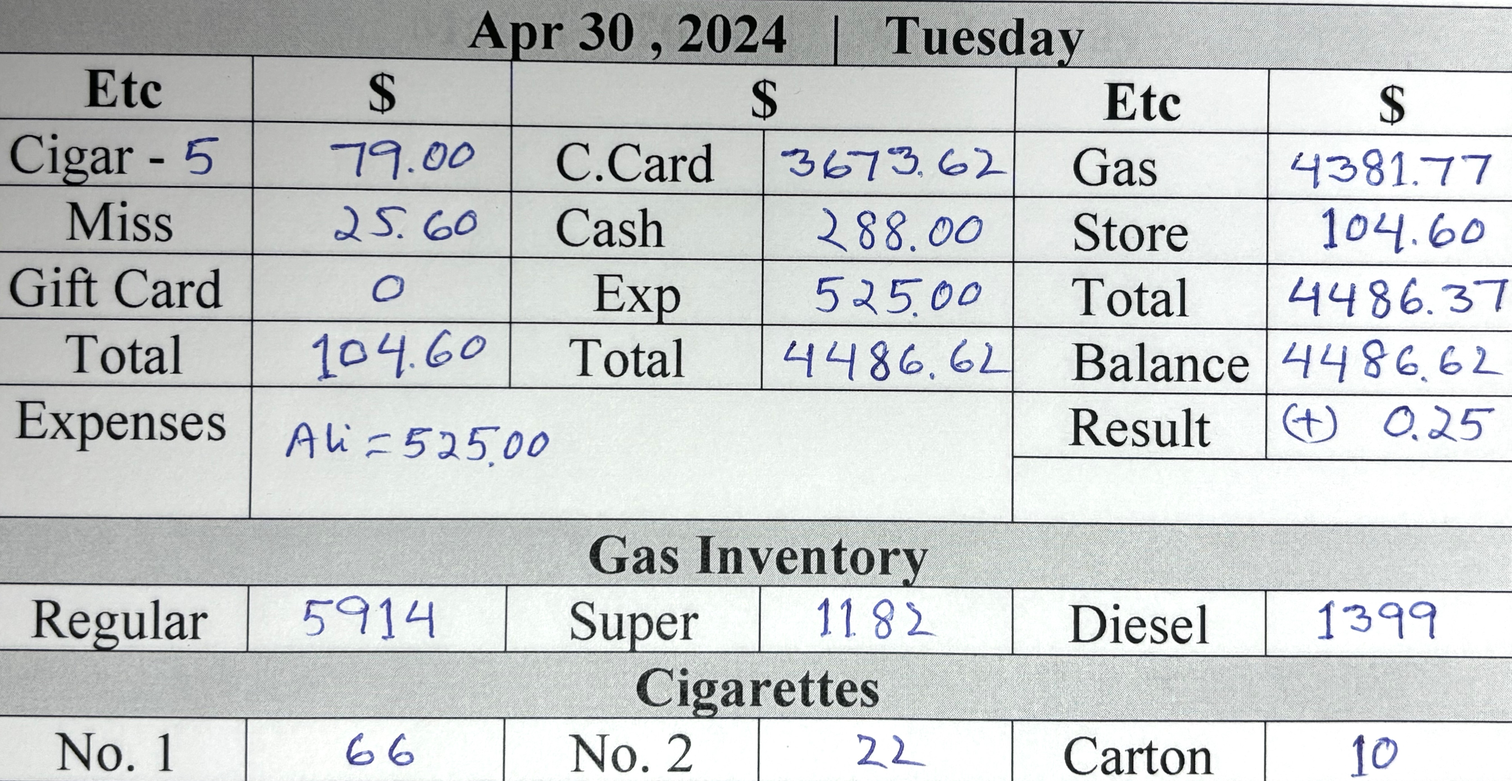
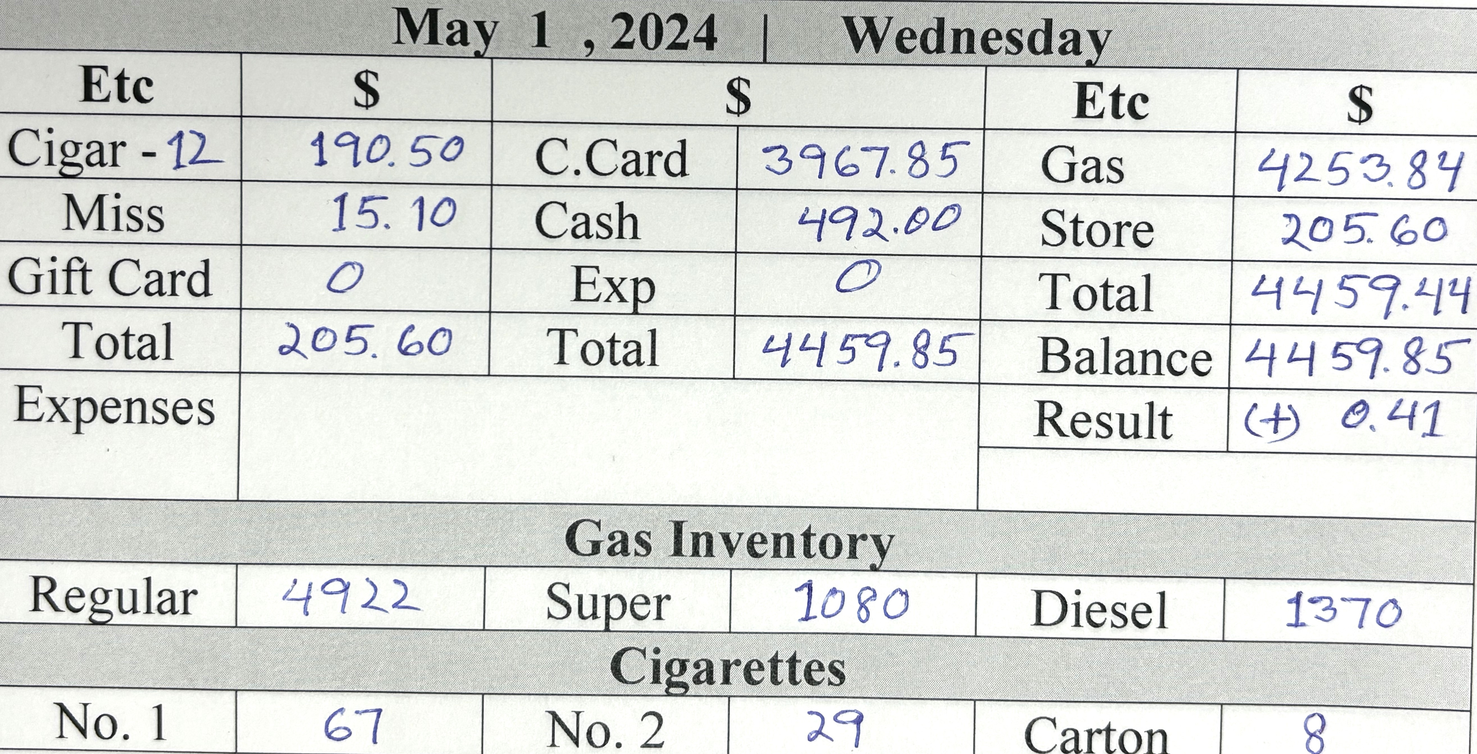
d

diff --git a/card.min.html b/card.min.html
@@ -1,1 +1,1 @@
-<!DOCTYPE html> <html lang="en"> <head> <meta charset="UTF-8"> <meta http-equiv="X-UA-Compatible" content="IE=edge"> <meta name="viewport" content="width=device-width,initial-scale=1"> <title>Gallon Info</title> <link rel="stylesheet" href="https://cdn.jsdelivr.net/npm/bootstrap@5.3.0-alpha1/dist/css/bootstrap.min.css"> </head> <body> <div class="card-group d-sm-flex flex-row bd-highlight mb- justify-content-center"> <div class="card bg-secondary align-items-center justify-content-center" style="height:50px"> <div class="card-body text-info fst-italic"> <h5 class="card-title fw-bolder text-center">Regular Price : <span class="text-warning">$3.59 <sup class="text-white fw-bolder fs-5">9</sup></span></h5> </div> </div> <div class="card bg-secondary align-items-center justify-content-center" style="height:50px"> <div class="card-body text-info fst-italic"> <h5 class="card-title fw-bolder text-center pt-">Silver Price : <span class="text-warning">$4.55<sup class="text-white fw-bolder fs-5">9</sup></span></h5> </div> </div> <div class="card bg-secondary align-items-center justify-content-center" style="height:50px"> <div class="card-body text-info fst-italic"> <h5 class="card-title fw-bolder text-center">Super Price : <span class="text-warning">$4.65<sup class="text-white fw-bolder fs-5">9</sup></span></h5> </div> </div> <div class="card bg-secondary align-items-center justify-content-center" style="height:50px"> <div class="card-body text-info fst-italic"> <h5 class="card-title fw-bolder text-center">Diesel Price : <span class="text-warning">$4.45<sup class="text-white fw-bolder fs-5">9</sup></span></h5> </div> </div> </div> <div class="card-group"> <div class="card"> <button type="button" class="btn btn-warning text- fs- fw-bold text-uppercase"> For store Details <a title="printPage Me" class="text-bg-danger ms-3 fw-bolder p-1 rounded-3 text-decoration-none" href="index.html"> Click Me </a> </button> </div> </div> <div class="card-group m-0 d-sm-flex flex-row bd-highlight mb-"> <div class="card me-1 bg-info"> <h5 class="card-title text-center pt-4 m-0"> <button class="p-1 rounded-3" type="button"><a title="Click Me" class="text-decoration-none text-primary fw-bolder" href="index.html"> Date : Apr 30, 2025 </a> </button> </h5>  <p class="card-text"></p> <img src="allPic/30.jpg" class="card-img-top text-danger text-center fw-bolder fs-3" alt="Call Rashid "> <div class="card-body">   <p class="card-text"></p> </div> </div> <div class="card me-1 bg-info"> <h5 class="card-title text-center pt-4 m-0"> <button class="p-1 rounded-3" type="button"><a title="Click Me" class="text-primary fw-bolder text-decoration-none" href="index.html"> Apr 29,2024 </a> </button> </h5>  <p class="card-text"></p> <img src="allPic/29.jpg" class="card-img-top text-center text-bg-danger" alt="Not Done"> <div class="card-body">   <p class="card-text"></p> </div> </div> <div class="card ms- bg-info"> <h5 class="card-title text-center pt-4 m-0"> <button class="p-1 rounded-3" type="button"><a title="Click Me" class="text-primary fw-bolder text-decoration-none" href="index.html"> Apr 28,2024 </a> </button> </h5>  <p class="card-text"></p> <img src="allPic/28.jpg" class="card-img-top text-center text-bg-danger" alt="Not Done"> <div class="card-body">   <p class="card-text"></p> </div> </div> <div class="card me-1 bg-info"> <h5 class="card-title text-center pt-4 m-0"> <button class="p-1 rounded-3" type="button"><a title="Click Me" class="text-primary fw-bolder text-decoration-none" href="index.html"> Apr 27,2024 </a> </button> </h5>  <p class="card-text"></p> <img title="Pic" src="allPic/27.jpg" class="card-img-top text-bg-danger fw-bolder text-center" alt="Already Done"> <div class="card-body">   <p class="card-text"></p> </div> </div> </div> <div class="card"> <div class="card-header bg-warning text-dark fw-bolder text-center py-3"> All Rights Reserved @ Jaber Ali , 2024 </div> </div>  <script type="text/javascript">const timeElement=document.querySelector(".time"),dateElement=document.querySelector(".date");function formatTime(e){e.getHours(),e.getMinutes(),e.getHours();return""}function formatDate(e){return` ${["January","Marruary","March","April","May","June","July","August","September","October","November","December"][e.getMonth()]} ${e.getDate()-1}, ${e.getFullYear()}`}setInterval((()=>{const e=new Date;timeElement.textContent=formatTime(e),dateElement.textContent=formatDate(e)}),200)</script> 
+<!DOCTYPE html> <html lang="en"> <head> <meta charset="UTF-8"> <meta http-equiv="X-UA-Compatible" content="IE=edge"> <meta name="viewport" content="width=device-width,initial-scale=1"> <title>Gallon Info</title> <link rel="stylesheet" href="https://cdn.jsdelivr.net/npm/bootstrap@5.3.0-alpha1/dist/css/bootstrap.min.css"> </head> <body> <div class="card-group d-sm-flex flex-row bd-highlight mb- justify-content-center"> <div class="card bg-secondary align-items-center justify-content-center" style="height:50px"> <div class="card-body text-info fst-italic"> <h5 class="card-title fw-bolder text-center">Regular Price : <span class="text-warning">$3.59 <sup class="text-white fw-bolder fs-5">9</sup></span></h5> </div> </div> <div class="card bg-secondary align-items-center justify-content-center" style="height:50px"> <div class="card-body text-info fst-italic"> <h5 class="card-title fw-bolder text-center pt-">Silver Price : <span class="text-warning">$4.55<sup class="text-white fw-bolder fs-5">9</sup></span></h5> </div> </div> <div class="card bg-secondary align-items-center justify-content-center" style="height:50px"> <div class="card-body text-info fst-italic"> <h5 class="card-title fw-bolder text-center">Super Price : <span class="text-warning">$4.65<sup class="text-white fw-bolder fs-5">9</sup></span></h5> </div> </div> <div class="card bg-secondary align-items-center justify-content-center" style="height:50px"> <div class="card-body text-info fst-italic"> <h5 class="card-title fw-bolder text-center">Diesel Price : <span class="text-warning">$4.45<sup class="text-white fw-bolder fs-5">9</sup></span></h5> </div> </div> </div> <div class="card-group"> <div class="card"> <button type="button" class="btn btn-warning text- fs- fw-bold text-uppercase"> For store Details <a title="printPage Me" class="text-bg-danger ms-3 fw-bolder p-1 rounded-3 text-decoration-none" href="index.html"> Click Me </a> </button> </div> </div> <div class="card-group m-0 d-sm-flex flex-row bd-highlight mb-"> <div class="card me-1 bg-info"> <h5 class="card-title text-center pt-4 m-0"> <button class="p-1 rounded-3" type="button"><a title="Click Me" class="text-decoration-none text-primary fw-bolder" href="index.html">   </a> </button> </h5>  <p class="card-text"></p> <img src="allPic/1.jpg" class="card-img-top text-danger text-center fw-bolder fs-3" alt="Call Rashid "> <div class="card-body">   <p class="card-text"></p> </div> </div> <div class="card me-1 bg-info"> <h5 class="card-title text-center pt-4 m-0"> <button class="p-1 rounded-3" type="button"><a title="Click Me" class="text-primary fw-bolder text-decoration-none" href="index.html"> Apr 30,2024 </a> </button> </h5>  <p class="card-text"></p> <img src="allPic/30.jpg" class="card-img-top text-center text-bg-danger" alt="Not Done"> <div class="card-body">   <p class="card-text"></p> </div> </div> <div class="card ms- bg-info"> <h5 class="card-title text-center pt-4 m-0"> <button class="p-1 rounded-3" type="button"><a title="Click Me" class="text-primary fw-bolder text-decoration-none" href="index.html"> Apr 29,2024 </a> </button> </h5>  <p class="card-text"></p> <img src="allPic/29.jpg" class="card-img-top text-center text-bg-danger" alt="Not Done"> <div class="card-body">   <p class="card-text"></p> </div> </div> <div class="card me-1 bg-info"> <h5 class="card-title text-center pt-4 m-0"> <button class="p-1 rounded-3" type="button"><a title="Click Me" class="text-primary fw-bolder text-decoration-none" href="index.html"> Apr 28,2024 </a> </button> </h5>  <p class="card-text"></p> <img title="Pic" src="allPic/28.jpg" class="card-img-top text-bg-danger fw-bolder text-center" alt="Already Done"> <div class="card-body">   <p class="card-text"></p> </div> </div> </div> <div class="card"> <div class="card-header bg-warning text-dark fw-bolder text-center py-3"> All Rights Reserved @ Jaber Ali , 2024 </div> </div>  <script type="text/javascript">const timeElement=document.querySelector(".time"),dateElement=document.querySelector(".date");function formatTime(e){e.getHours(),e.getMinutes(),e.getHours();return""}function formatDate(e){return` ${["January","Marruary","March","April","May","June","July","August","September","October","November","December"][e.getMonth()]} ${e.getDate()-1}, ${e.getFullYear()}`}setInterval((()=>{const e=new Date;timeElement.textContent=formatTime(e),dateElement.textContent=formatDate(e)}),200)</script> 

diff --git a/weekly.min.html b/weekly.min.html
@@ -1,1 +1,1 @@
-<!DOCTYPE html> <html lang="en"> <meta charset="UTF-8"> <meta http-equiv="X-UA-Compatible" content="IE=edge"> <meta name="viewport" content="width=device-width,initial-scale=1"> <title>Cigarettes Info</title> <link rel="stylesheet" href="https://cdn.jsdelivr.net/npm/bootstrap@5.3.0-alpha1/dist/css/bootstrap.min.css">  <body> <div class="text-bg-success py-2 fw-bold"> <marquee behavior="" direction="">Weekly Total Sales Money</marquee> </div> <div class="container-fluid text-center m-0 p-0"> <div class="card-group"> <div class="card"> <button type="button" class="btn btn-warning fs- fw-bold text-uppercase"> Home Page <a title="printPage Me" class="text-bg-danger ms-2 fw-bolder p-1 rounded-3 text-decoration-none" href="index.html"> Click Me </a> </button> </div> </div> <div class="text-bg-info text-cente py- fw-bold mb-"> <div class="card-group m-0 d-sm-flex flex-row bd-highlight mb-"> <div class="card me- bg-inf"> <h5 class="text-center ms-5 mt-3 text-danger">Current Week</h5> <div class="card-body ms-3 p-0"> <table class="table"> <tr class="text-end"> <td>Monday </td> <td>:</td> <td class="text-start"> 1129.00</td> </tr> <tr class="text-end"> <td>Tuesday </td> <td> :</td> <td class="text-start"> 813.00 </td> </tr> <tr class="text-end"> <td>Wednesday</td> <td> :</td> <td class="text-start"> .00</td> </tr> <tr class="text-end"> <td>Thursday </td> <td> :</td> <td class="text-start">.00 </td> </tr> <tr class="text-end"> <td class="">Friday </td> <td> :</td> <td class="text-start"> .00</td> </tr> <tr class="text-end"> <td>Saturday </td> <td> :</td> <td class="text-start"> .00</td> </tr> <tr class="text-end"> <td>Sunday </td> <td> :</td> <td class="text-start"> .00 </td> </tr> <tr class="text-end"> <td>Auto Money </td> <td> :</td> <td class="text-start"> .00 </td> </tr> </table> <div class="m-0 p-0"> <p class="text-center text-danger bg-light fw-bold">Total Money : 0 </p> </div> </div> </div> <div class="card me- bg-inf"> <h5 class="text-center ms- mt-3 text-danger">Last Week : Apr 22 to 28 , 2024</h5> <div class="card-body ms-3 p-0"> <table class="table"> <tr class="text-end"> <tr class="text-end"> <td>Monday </td> <td>:</td> <td class="text-start"> 516.00</td> </tr> <tr class="text-end"> <td>Tuesday </td> <td> :</td> <td class="text-start"> 996.00 </td> </tr> <tr class="text-end"> <td>Wednesday</td> <td> :</td> <td class="text-start"> 502.00</td> </tr> <tr class="text-end"> <td>Thursday </td> <td> :</td> <td class="text-start">1041.00 </td> </tr> <tr class="text-end"> <td class="">Friday </td> <td> :</td> <td class="text-start"> 829.00</td> </tr> <tr class="text-end"> <td>Saturday </td> <td> :</td> <td class="text-start"> 921.00</td> </tr> <tr class="text-end"> <td>Sunday </td> <td> :</td> <td class="text-start"> 755.00 </td> </tr> <tr class="text-end"> <td>Auto Money </td> <td> :</td> <td class="text-start"> 1407 <sup class="p-1 rounded-4 text-bg-dark">Tax:48</sup> [Mostofa=1360] </td> </tr> </table> <div class="m-0 p-0"> <p class="text-center text-danger bg-light fw-bold">Total Money : 6967 - 1163 = 5804 </p> </div> </div> </div> <div class="card me- bg-"> <div class="card-body"> <h5 class="text-start text-danger ms-2">Expenses of Last Week</h5> <table class="table text-start"> <tr> <td class="">Ali <span class="ms-5">: 630.00</span></td> </tr> <tr> <td class="">Rashid <span class="ms-3">: 533.00</span></td> </tr> <tr> </tr> <tr> <td class="text-bg-warning text-dark rounded-2">Total <span class="ms-4">: 1163.00</span></td> </tr> </table> </div> </div> </div> </div> <!-- #footer start --> <div class="text-bg-success text-center py-2 fw-bold"> <p> All Rights Reserved @ Jaber Ali , 2024  </p> </div> </div> <script type="text/javascript">function printPage(){window.print()}</script> 
+<!DOCTYPE html> <html lang="en"> <meta charset="UTF-8"> <meta http-equiv="X-UA-Compatible" content="IE=edge"> <meta name="viewport" content="width=device-width,initial-scale=1"> <title>Cigarettes Info</title> <link rel="stylesheet" href="https://cdn.jsdelivr.net/npm/bootstrap@5.3.0-alpha1/dist/css/bootstrap.min.css">  <body> <div class="text-bg-success py-2 fw-bold"> <marquee behavior="" direction="">Weekly Total Sales Money</marquee> </div> <div class="container-fluid text-center m-0 p-0"> <div class="card-group"> <div class="card"> <button type="button" class="btn btn-warning fs- fw-bold text-uppercase"> Home Page <a title="printPage Me" class="text-bg-danger ms-2 fw-bolder p-1 rounded-3 text-decoration-none" href="index.html"> Click Me </a> </button> </div> </div> <div class="text-bg-info text-cente py- fw-bold mb-"> <div class="card-group m-0 d-sm-flex flex-row bd-highlight mb-"> <div class="card me- bg-inf"> <h5 class="text-center ms-5 mt-3 text-danger">Current Week</h5> <div class="card-body ms-3 p-0"> <table class="table"> <tr class="text-end"> <td>Monday </td> <td>:</td> <td class="text-start"> 1129.00</td> </tr> <tr class="text-end"> <td>Tuesday </td> <td> :</td> <td class="text-start"> 813.00 </td> </tr> <tr class="text-end"> <td>Wednesday</td> <td> :</td> <td class="text-start"> 492.00</td> </tr> <tr class="text-end"> <td>Thursday </td> <td> :</td> <td class="text-start">.00 </td> </tr> <tr class="text-end"> <td class="">Friday </td> <td> :</td> <td class="text-start"> .00</td> </tr> <tr class="text-end"> <td>Saturday </td> <td> :</td> <td class="text-start"> .00</td> </tr> <tr class="text-end"> <td>Sunday </td> <td> :</td> <td class="text-start"> .00 </td> </tr> <tr class="text-end"> <td>Auto Money </td> <td> :</td> <td class="text-start"> .00 </td> </tr> </table> <div class="m-0 p-0"> <p class="text-center text-danger bg-light fw-bold">Total Money : 0 </p> </div> </div> </div> <div class="card me- bg-inf"> <h5 class="text-center ms- mt-3 text-danger">Last Week : Apr 22 to 28 , 2024</h5> <div class="card-body ms-3 p-0"> <table class="table"> <tr class="text-end"> <tr class="text-end"> <td>Monday </td> <td>:</td> <td class="text-start"> 516.00</td> </tr> <tr class="text-end"> <td>Tuesday </td> <td> :</td> <td class="text-start"> 996.00 </td> </tr> <tr class="text-end"> <td>Wednesday</td> <td> :</td> <td class="text-start"> 502.00</td> </tr> <tr class="text-end"> <td>Thursday </td> <td> :</td> <td class="text-start">1041.00 </td> </tr> <tr class="text-end"> <td class="">Friday </td> <td> :</td> <td class="text-start"> 829.00</td> </tr> <tr class="text-end"> <td>Saturday </td> <td> :</td> <td class="text-start"> 921.00</td> </tr> <tr class="text-end"> <td>Sunday </td> <td> :</td> <td class="text-start"> 755.00 </td> </tr> <tr class="text-end"> <td>Auto Money </td> <td> :</td> <td class="text-start"> 1407 <sup class="p-1 rounded-4 text-bg-dark">Tax:48</sup> [Mostofa=1360] </td> </tr> </table> <div class="m-0 p-0"> <p class="text-center text-danger bg-light fw-bold">Total Money : 6967 - 1163 = 5804 </p> </div> </div> </div> <div class="card me- bg-"> <div class="card-body"> <h5 class="text-start text-danger ms-2">Expenses of Last Week</h5> <table class="table text-start"> <tr> <td class="">Ali <span class="ms-5">: 630.00</span></td> </tr> <tr> <td class="">Rashid <span class="ms-3">: 533.00</span></td> </tr> <tr> </tr> <tr> <td class="text-bg-warning text-dark rounded-2">Total <span class="ms-4">: 1163.00</span></td> </tr> </table> </div> </div> </div> </div> <!-- #footer start --> <div class="text-bg-success text-center py-2 fw-bold"> <p> All Rights Reserved @ Jaber Ali , 2024  </p> </div> </div> <script type="text/javascript">function printPage(){window.print()}</script> 

diff --git a/cigarettes.min.html b/cigarettes.min.html
@@ -1,1 +1,1 @@
-<!DOCTYPE html> <html lang="en"> <meta charset="UTF-8"> <meta http-equiv="X-UA-Compatible" content="IE=edge"> <meta name="viewport" content="width=device-width,initial-scale=1"> <title>Cigarettes Info</title> <link rel="stylesheet" href="https://cdn.jsdelivr.net/npm/bootstrap@5.3.0-alpha1/dist/css/bootstrap.min.css">  <body> <div class="text-bg-success py-2 fw-bold"> <marquee behavior="" direction="">BP, 507 Jerusalem Ave , North Bellmore NY 11710</marquee> </div> <div class="container-fluid text-center m-0 p-0 bg-light"> <div class="card-group"> <div class="card"> <button type="button" class="btn btn-warning fs- fw-bold text-uppercase"> For store Details <a title="printPage Me" class="text-bg-danger ms-3 fw-bolder p-1 rounded-3 text-decoration-none" href="index.html"> Click Me </a> </button> </div> </div> <div class="col"> <table class="table table-success table-striped table-bordered border-success text-primary fw-bold"> <tbody> <tr class="text-capitalize"> <td class="text-primary text-start fs-5 fw-bolde"> <h5 class="text-capitalize text-dark fw-bolder ms-4">Make an order cigarette :</h5> <ol class="ms-3"> <li class=""> Newport reg short only : </li> <li class="">Parliament light short and 100 : </li> <li class="">Parliament Menthol and Silver : </li> <li class="">Merit blue : </li> <li class="">Marlboro light short only : </li> <li class="">American spirit blue and yellow : </li> </ol> </td> </tr> </tbody> </table> <table class="table table-success table-striped table-bordered border-success text-primary fw-bold"> <tbody> <tr> <td class="text-primary text-start fs-5 fw-bolde"> <h4 class="text-capitalize text-dark fw-bolder ms-4">on hand cigarette in store :</h4> <ol class="ms-3"> <li class=""> Newport reg : 1 carton</li> <li class=""> Newport 100 : 2 carton</li> <li class="">Marlboro red reg : 1 Carton</li> <li class="">Marlboro red 100 : 1 Carton</li> <li class="">Marlboro light 100 : 2 Carton</li> <li class="">American Dark Green : 2 Carton</li> </ol> <button title="For April-23" type="button" class="btn btn-danger fw-bolder ms-4"> Total : { 9 } Carton on Hand in Store </button> </td> </tr> </tbody> </table> </div> </div>  <div class="text-bg-info text-center py-1 fw-bold mb-2"> <h4 class="text-">Monthly Cigar Purchase :</h4> <div class="card-group m-0 d-sm-flex flex-row bd-highlight mb-"> <div class="card me-1 bg-info"> <h5 class="card-title text-center pt-4 m-0"> <button class="p-1 rounded-3" type="button"> <a title="Click Me" class="text-decoration-none text-primary fw-bolder" href="index.html"> Month : Mar , 2024 </a> </button> </h5>  <p class="card-text"></p> <img src="allPic/mar.jpg" class="card-img-top text-danger text-center fw-bolder fs-3" alt="Not Done "> <div class="card-body">   <p class="card-text"></p> </div> </div> <div class="card me-1 bg-info"> <h5 class="card-title text-center pt-4 m-0"> <button class="p-1 rounded-3" type="button"> <a title="Click Me" class="text-primary fw-bolder text-decoration-none" href="index.html"> Month : Jan , 2024 </a> </button> </h5>  <p class="card-text"></p> <img src="allPic/jan.jpg" class="card-img-top text-center text-bg-danger" alt="Not Done"> <div class="card-body">   <p class="card-text"></p> </div> </div> </div> </div> <!-- #footer start --> <div class="text-bg-success text-center py-2 fw-bold"> <p> All Rights Reserved @ Jaber Ali , 2024  </p> </div>  <script type="text/javascript">function printPage(){window.print()}</script> 
+<!DOCTYPE html> <html lang="en"> <meta charset="UTF-8"> <meta http-equiv="X-UA-Compatible" content="IE=edge"> <meta name="viewport" content="width=device-width,initial-scale=1"> <title>Cigarettes Info</title> <link rel="stylesheet" href="https://cdn.jsdelivr.net/npm/bootstrap@5.3.0-alpha1/dist/css/bootstrap.min.css">  <body> <div class="text-bg-success py-2 fw-bold"> <marquee behavior="" direction="">BP, 507 Jerusalem Ave , North Bellmore NY 11710</marquee> </div> <div class="container-fluid text-center m-0 p-0 bg-light"> <div class="card-group"> <div class="card"> <button type="button" class="btn btn-warning fs- fw-bold text-uppercase"> For store Details <a title="printPage Me" class="text-bg-danger ms-3 fw-bolder p-1 rounded-3 text-decoration-none" href="index.html"> Click Me </a> </button> </div> </div> <div class="col"> <table class="table table-success table-striped table-bordered border-success text-primary fw-bold"> <tbody> <tr class="text-capitalize"> <td class="text-primary text-start fs-5 fw-bolde"> <h5 class="text-capitalize text-dark fw-bolder ms-4">Make an order cigarette :</h5> <ol class="ms-3"> <li class=""> Newport reg short only : </li> <li class="">Parliament light short and 100 : </li> <li class="">Parliament Menthol and Silver : </li> <li class="">Merit blue : </li> <li class="">Marlboro light short only : </li> <li class="">American spirit blue and yellow : </li> </ol> </td> </tr> </tbody> </table> <table class="table table-success table-striped table-bordered border-success text-primary fw-bold"> <tbody> <tr> <td class="text-primary text-start fs-5 fw-bolde"> <h4 class="text-capitalize text-dark fw-bolder ms-4">on hand cigarette in store :</h4> <ol class="ms-3"> <li class=""> Newport 100 : 2 carton</li> <li class="">Marlboro red reg : 1 Carton</li> <li class="">Marlboro red 100 : 1 Carton</li> <li class="">Marlboro light 100 : 2 Carton</li> <li class="">American Dark Green : 2 Carton</li> </ol> <button title="For April-23" type="button" class="btn btn-danger fw-bolder ms-4"> Total : { 8 } Carton on Hand in Store </button> </td> </tr> </tbody> </table> </div> </div>  <div class="text-bg-info text-center py-1 fw-bold mb-2"> <h4 class="text-">Monthly Cigar Purchase :</h4> <div class="card-group m-0 d-sm-flex flex-row bd-highlight mb-"> <div class="card me-1 bg-info"> <h5 class="card-title text-center pt-4 m-0"> <button class="p-1 rounded-3" type="button"> <a title="Click Me" class="text-decoration-none text-primary fw-bolder" href="index.html"> Month : Mar , 2024 </a> </button> </h5>  <p class="card-text"></p> <img src="allPic/mar.jpg" class="card-img-top text-danger text-center fw-bolder fs-3" alt="Not Done "> <div class="card-body">   <p class="card-text"></p> </div> </div> <div class="card me-1 bg-info"> <h5 class="card-title text-center pt-4 m-0"> <button class="p-1 rounded-3" type="button"> <a title="Click Me" class="text-primary fw-bolder text-decoration-none" href="index.html"> Month : Jan , 2024 </a> </button> </h5>  <p class="card-text"></p> <img src="allPic/jan.jpg" class="card-img-top text-center text-bg-danger" alt="Not Done"> <div class="card-body">   <p class="card-text"></p> </div> </div> </div> </div> <!-- #footer start --> <div class="text-bg-success text-center py-2 fw-bold"> <p> All Rights Reserved @ Jaber Ali , 2024  </p> </div>  <script type="text/javascript">function printPage(){window.print()}</script> 

diff --git a/oil.min.html b/oil.min.html
@@ -1,1 +1,1 @@
-<!DOCTYPE html> <html lang="en"> <meta charset="UTF-8"> <meta http-equiv="X-UA-Compatible" content="IE=edge"> <meta name="viewport" content="width=device-width,initial-scale=1"> <title>Oil Inentory</title> <link rel="stylesheet" href="https://cdn.jsdelivr.net/npm/bootstrap@5.3.0-alpha1/dist/css/bootstrap.min.css">  <body> <div class="text-bg-success py-2 fw-bold"> <marquee behavior="" direction="">OIL INVENTORY</marquee> </div> <div class="container-fluid text-center m-0 p-0"> <div class="card-group"> <div class="card"> <button type="button" class="btn btn-warning fs- fw-bold text-uppercase"> Home Page <a title="printPage Me" class="text-bg-danger ms-2 fw-bolder p-1 rounded-3 text-decoration-none" href="index.html"> Click Me </a> </button> </div> </div> <div class="text-bg-inf fw-bold mb-"> <div class="card-group m- text-cente d-sm-flex flex-row bd-highlight mb-"> <div class="container mt-3"> <h3>Oil Inventory</h3> <div class="table-responsive-sm"> <table class="table table-bordered"> <tbody> <thead class="text-bg-dark fw-bolder"> <tr> <td>Name</td> <td>Quantity</td> <td>Sold</td> </tr> </thead> <tr> <td>Synthetic Oil</td> <td>26</td> <td>0</td> </tr> <tr> <td>Regular Oil</td> <td>42</td> <td>0 </td> </tr> <tr> <td>Washer Fluid</td> <td>3</td> <td>0</td> </tr> <tr> <td>Antifreeze </td> <td>3</td> <td>0</td> </tr> <tr> <td>Gas Can</td> <td>3</td> <td>0</td> </tr> <tr> <td>Rhino Item</td> <td>106</td> <td>0</td> </tr> </tbody> </table> </div> </div> </div> </div> </div> <!-- #footer start --> <div class="text-bg-success text-center py-2 fw-bold"> <p> All Rights Reserved @ Jaber Ali , 2024  </p> </div>  <script type="text/javascript">function printPage(){window.print()}</script> 
+<!DOCTYPE html> <html lang="en"> <meta charset="UTF-8"> <meta http-equiv="X-UA-Compatible" content="IE=edge"> <meta name="viewport" content="width=device-width,initial-scale=1"> <title>Oil Inentory</title> <link rel="stylesheet" href="https://cdn.jsdelivr.net/npm/bootstrap@5.3.0-alpha1/dist/css/bootstrap.min.css">  <body> <div class="text-bg-success py-2 fw-bold"> <marquee behavior="" direction="">OIL INVENTORY</marquee> </div> <div class="container-fluid text-center m-0 p-0"> <div class="card-group"> <div class="card"> <button type="button" class="btn btn-warning fs- fw-bold text-uppercase"> Home Page <a title="printPage Me" class="text-bg-danger ms-2 fw-bolder p-1 rounded-3 text-decoration-none" href="index.html"> Click Me </a> </button> </div> </div> <div class="text-bg-inf fw-bold mb-"> <div class="card-group m- text-cente d-sm-flex flex-row bd-highlight mb-"> <div class="container mt-3"> <h3>Oil Inventory</h3> <div class="table-responsive-sm"> <table class="table table-bordered"> <tbody> <thead class="text-bg-dark fw-bolder"> <tr> <td>Name</td> <td>Quantity</td> <td>Sold</td> </tr> </thead> <tr> <td>Synthetic Oil</td> <td>25</td> <td>1</td> </tr> <tr> <td>Regular Oil</td> <td>42</td> <td>0 </td> </tr> <tr> <td>Washer Fluid</td> <td>2</td> <td>1</td> </tr> <tr> <td>Antifreeze </td> <td>3</td> <td>0</td> </tr> <tr> <td>Gas Can</td> <td>3</td> <td>0</td> </tr> <tr> <td>Rhino Item</td> <td>106</td> <td>0</td> </tr> </tbody> </table> </div> </div> </div> </div> </div> <!-- #footer start --> <div class="text-bg-success text-center py-2 fw-bold"> <p> All Rights Reserved @ Jaber Ali , 2024  </p> </div>  <script type="text/javascript">function printPage(){window.print()}</script> 

diff --git a/card.html b/card.html
@@ -59,15 +59,15 @@
         <h5 class="card-title text-center  pt-4 m-0">
           <button class="p-1  rounded-3" type="button"><a title="Click Me"
              class="text-decoration-none text-primary fw-bolder  "  href="index.html">
-             Date : Apr 30, 2025  
-            <!-- <div class="time"></div>
-            <div class="date"></div> -->
+             <!-- Date : Apr 30, 2025   -->
+            <div class="time"></div>
+            <div class="date"></div>
           </a>
           </button>
         </h5>
           <p class="card-text"></p>
           <p class="card-text"><small class="text-muted"></small></p>
-        <img src="allPic/30.jpg" class="card-img-top text-danger text-center fw-bolder fs-3"   alt="Call Rashid ">
+        <img src="allPic/1.jpg" class="card-img-top text-danger text-center fw-bolder fs-3"   alt="Call Rashid ">
         <div class="card-body">
           <h5 class="card-title"></h5>
           <p class="card-text"></p>
@@ -78,13 +78,13 @@
         <h5 class="card-title text-center pt-4 m-0">
           <button class="p-1 rounded-3" type="button"><a title="Click Me"
              class="text-primary fw-bolder text-decoration-none " href="index.html">
-             Apr 29,2024
+             Apr 30,2024
           </a>
           </button>
         </h5>
           <p class="card-text"></p>
           <p class="card-text"><small class="text-muted"></small></p>
-        <img src="allPic/29.jpg" class="card-img-top text-center text-bg-danger" 
+        <img src="allPic/30.jpg" class="card-img-top text-center text-bg-danger" 
         alt="Not Done">
         <div class="card-body">
           <h5 class="card-title"></h5>
@@ -96,13 +96,13 @@
         <h5 class="card-title text-center pt-4 m-0 ">
           <button class="p-1 rounded-3" type="button"><a title="Click Me" 
             class="text-primary fw-bolder text-decoration-none " href="index.html">
-            Apr 28,2024         
+            Apr 29,2024         
           </a>
           </button>
           </h5>
           <p class="card-text"></p>
           <p class="card-text"><small class="text-muted"></small></p>
-        <img src="allPic/28.jpg" class="card-img-top text-center text-bg-danger" 
+        <img src="allPic/29.jpg" class="card-img-top text-center text-bg-danger" 
         alt="Not Done">
         <div class="card-body">
           <h5 class="card-title"></h5>
@@ -115,13 +115,13 @@
         <h5 class="card-title text-center pt-4 m-0 ">
           <button class="p-1 rounded-3" type="button"><a title="Click Me" 
             class="text-primary fw-bolder text-decoration-none " href="index.html">
-             Apr 27,2024
+             Apr 28,2024
             </a>
           </button>
           </h5>
           <p class="card-text"></p>
           <p class="card-text"><small class="text-muted"></small></p>
-        <img title="Pic" src="allPic/27.jpg" class="card-img-top  text-bg-danger fw-bolder text-center"
+        <img title="Pic" src="allPic/28.jpg" class="card-img-top  text-bg-danger fw-bolder text-center"
          alt="Already Done">
         <div class="card-body">
           <h5 class="card-title"></h5>

diff --git a/cigarettes.html b/cigarettes.html
@@ -71,7 +71,7 @@
                 <td class="text-primary text-start fs-5 fw-bolde">
                   <h4 class=" text-capitalize text-dark fw-bolder ms-4">on hand cigarette in store :</h4>
                   <ol class="ms-3">
-                    <li class=""> Newport reg : 1 carton</li>
+                    <!-- <li class=""> Newport reg : 1 carton</li> -->
                     <li class=""> Newport 100 : 2 carton</li>
                     <!-- <li class="">Parliament 100 : 1 Carton</li>
                     <li class="">Parliament Menthol : 1 Carton</li> -->
@@ -86,7 +86,7 @@
             type="button"
             class="btn btn-danger fw-bolder ms-4"
           >
-            Total : { 9 } Carton on Hand in Store 
+            Total : { 8 } Carton on Hand in Store 
           </button>
                 </td>
                 

diff --git a/oil.html b/oil.html
@@ -56,8 +56,8 @@
                     </thead>
                   <tr>
                     <td>Synthetic Oil</td>
-                    <td>26</td>
-                    <td>0</td>
+                    <td>25</td>
+                    <td>1</td>
                   </tr>
                   <tr>
                     <td>Regular Oil</td>
@@ -67,8 +67,8 @@
                  
                   <tr>
                     <td>Washer Fluid</td>
-                    <td>3</td>
-                    <td>0</td>
+                    <td>2</td>
+                    <td>1</td>
                   </tr>
                   <tr>
                     <td>Antifreeze </td>

diff --git a/weekly.html b/weekly.html
@@ -59,7 +59,7 @@
                 <tr class=" text-end">
                     <td>Wednesday</td>
                     <td> :</td>
-                    <td class="text-start"> .00</td>
+                    <td class="text-start"> 492.00</td>
                 </tr>
                 <tr class=" text-end">
                     <td>Thursday </td>
